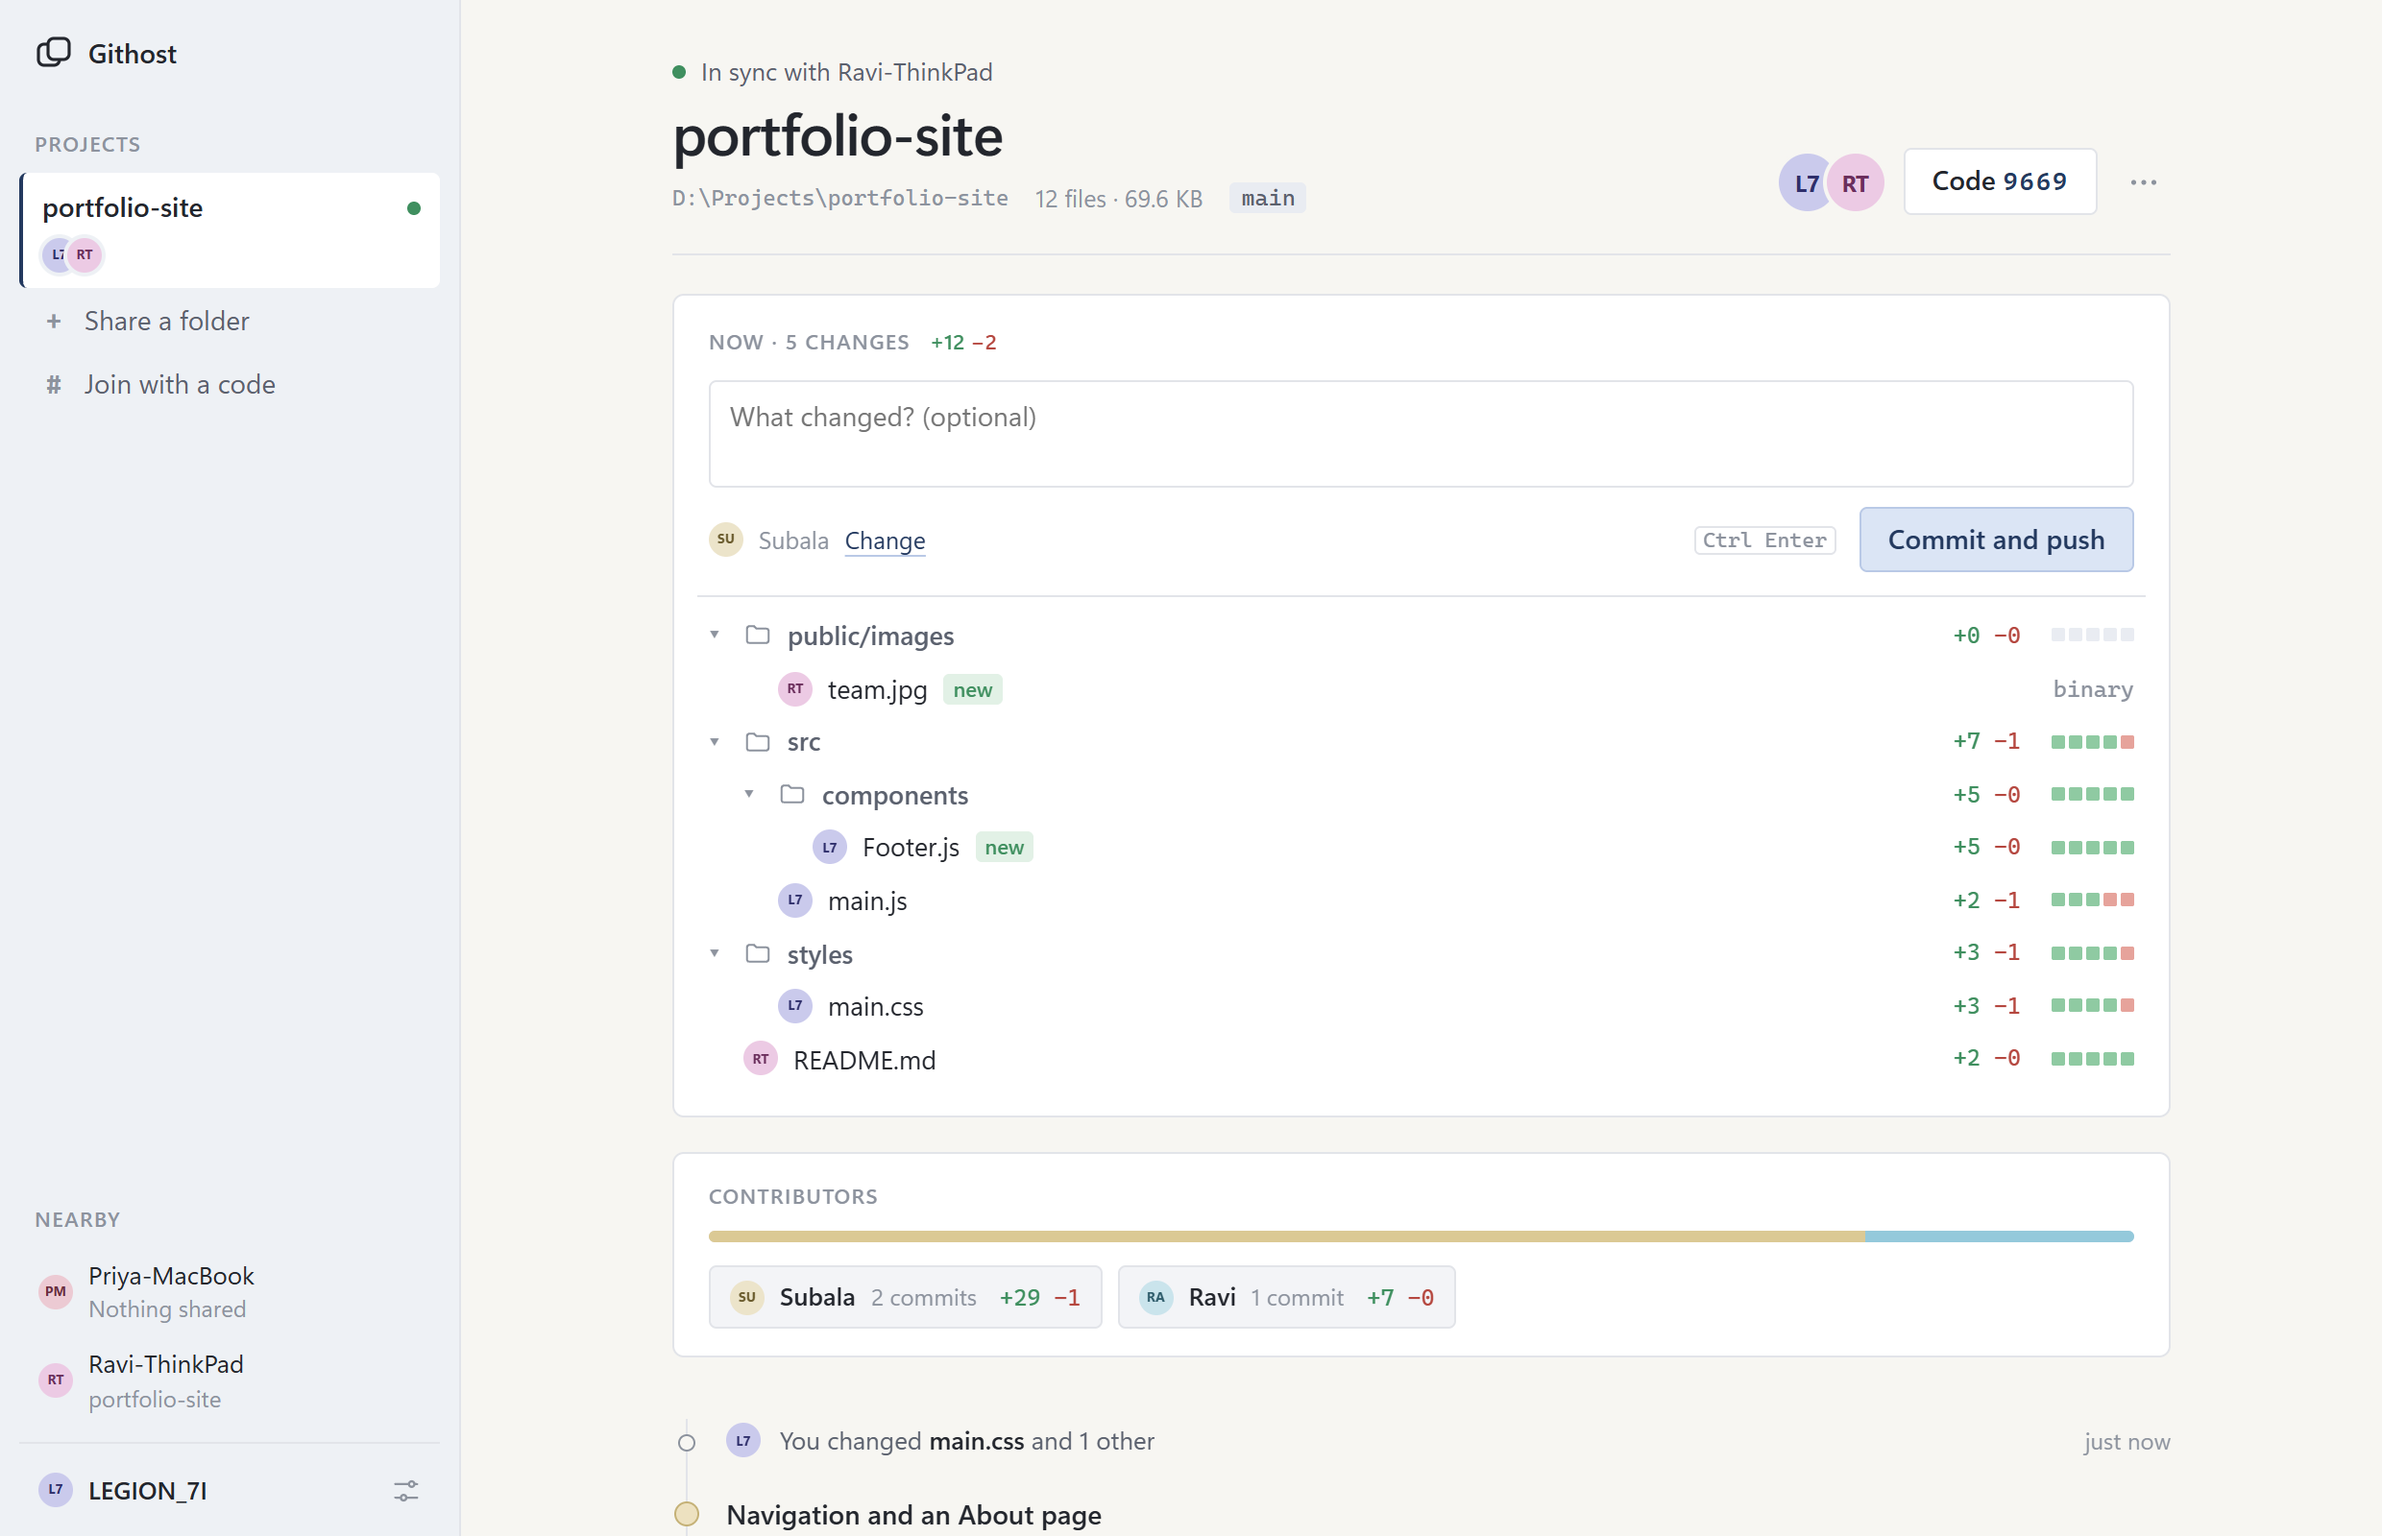
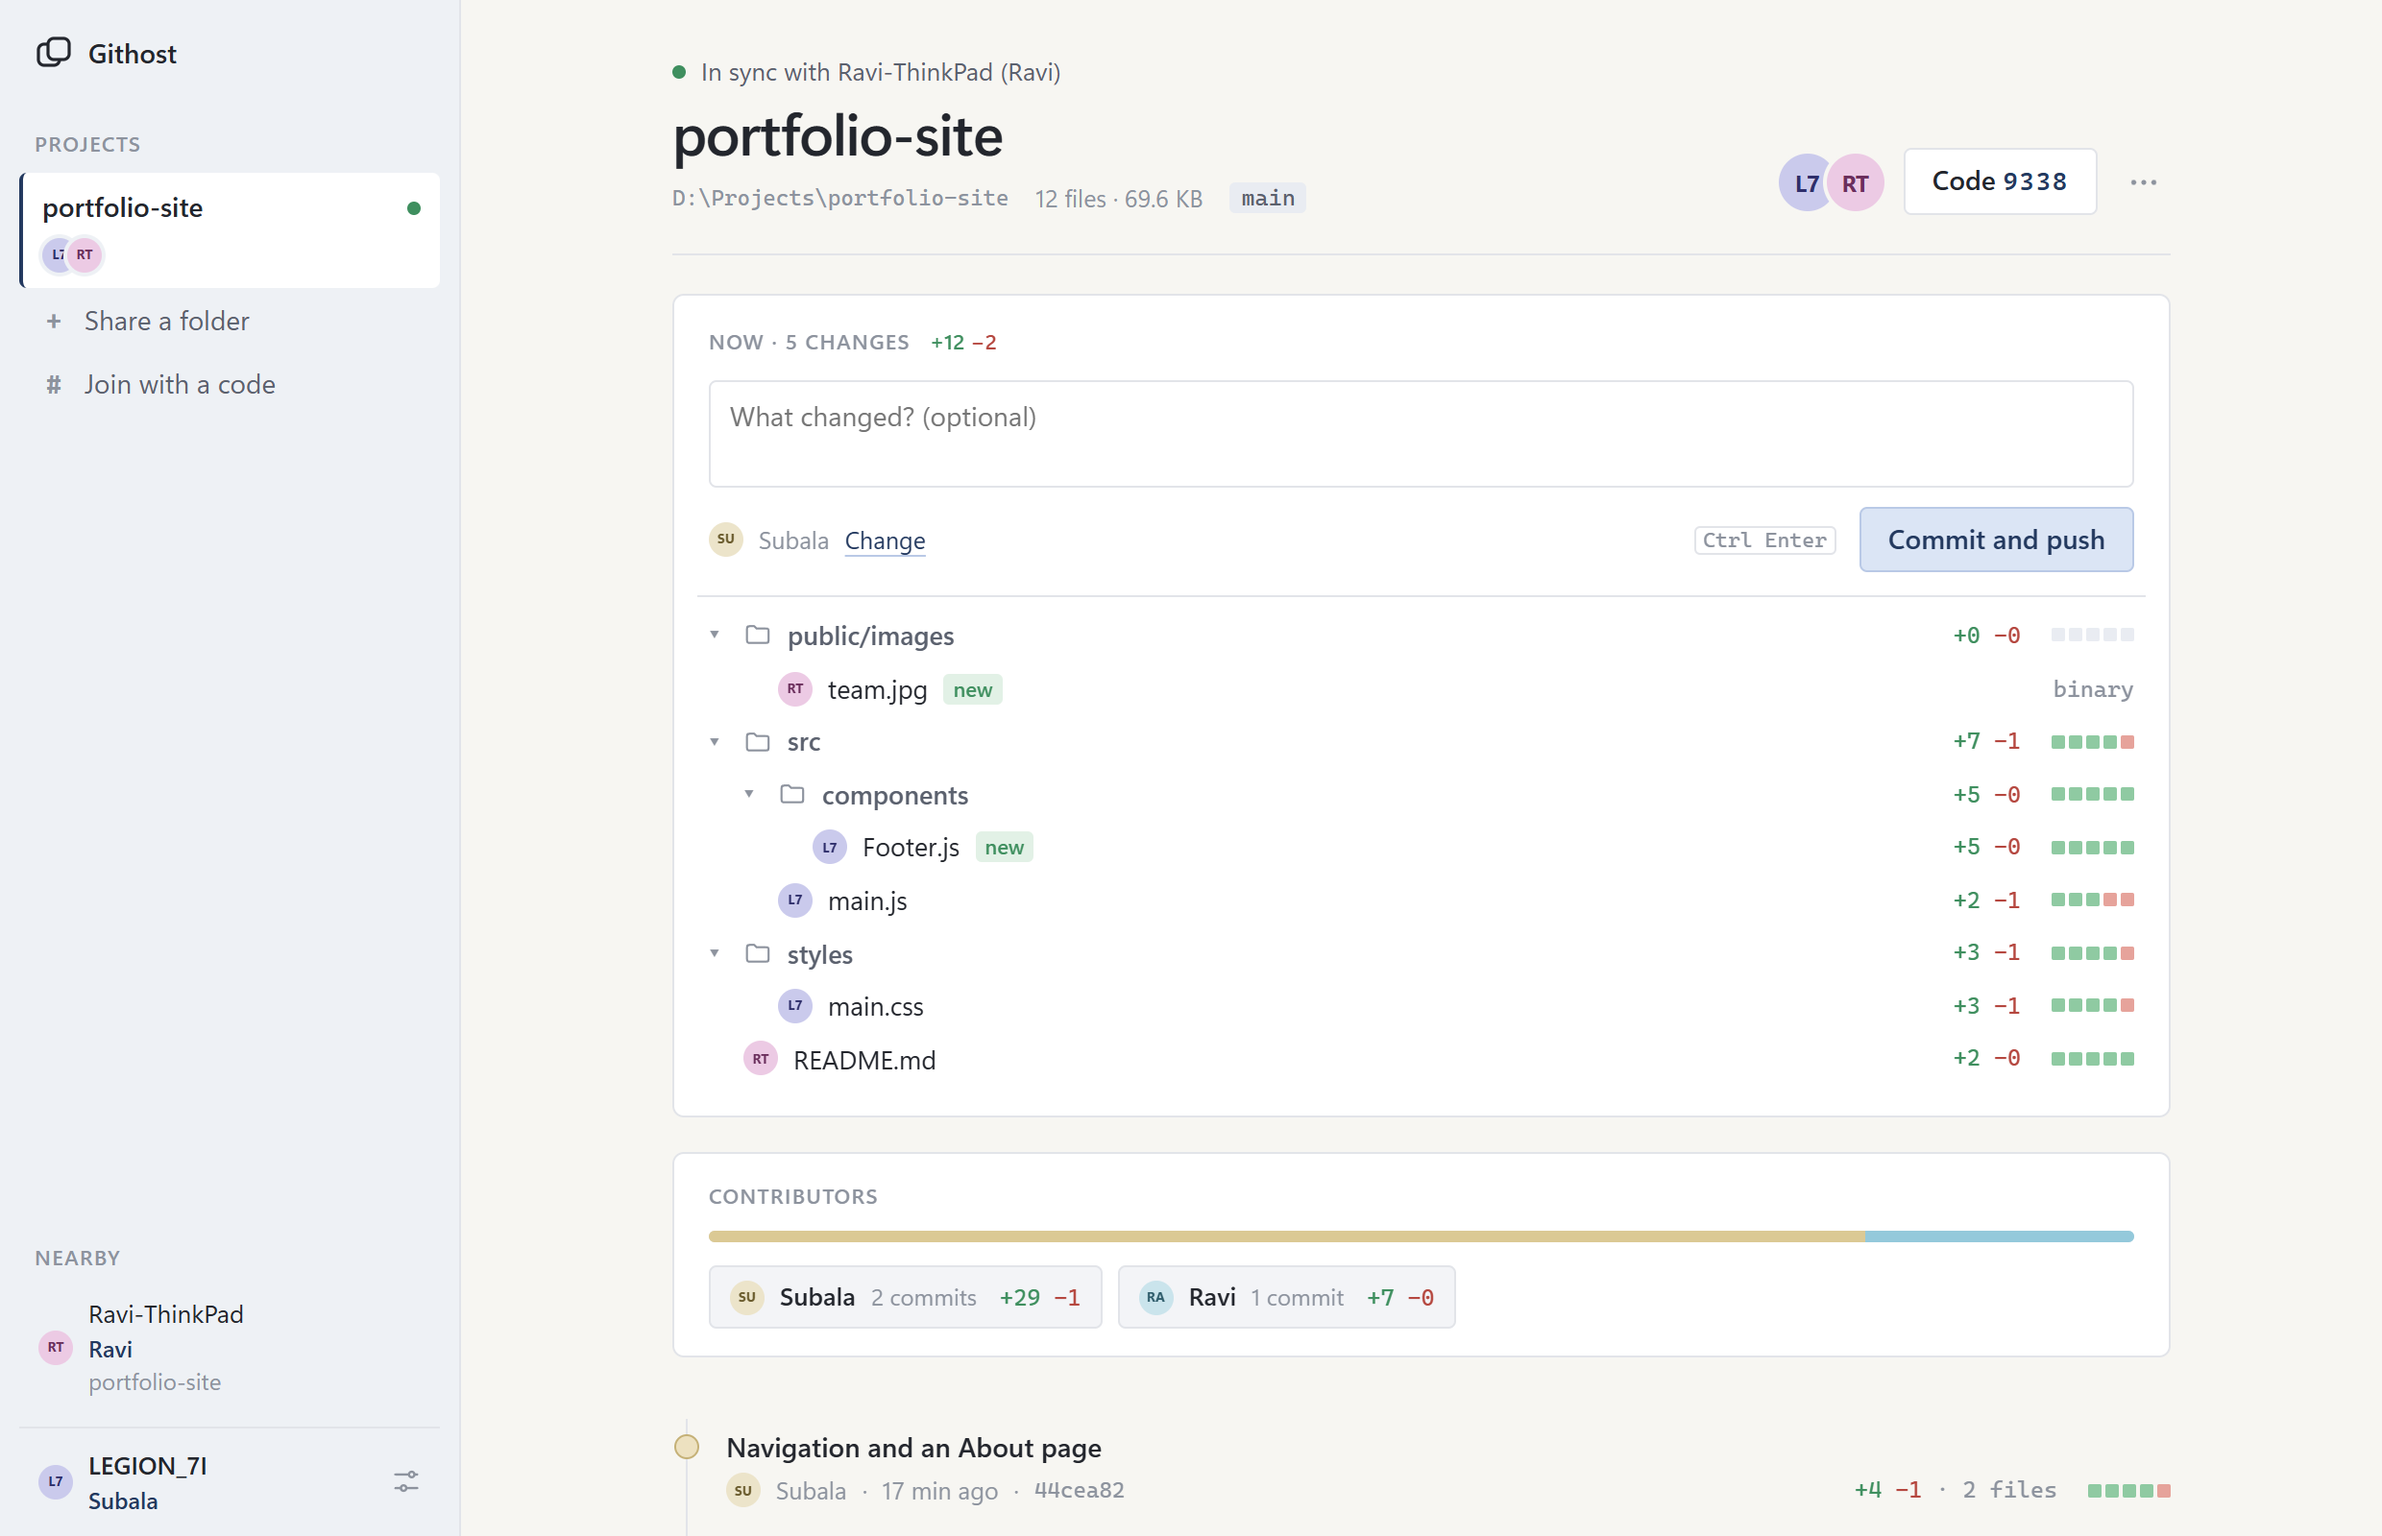
Each laptop's name comes with its owner's git name
Every laptop now says whose it is: it shares its git name (the one its shared repository commits
with, else the global one) on the network, and every other laptop keeps it with the laptop's name.
So PC1145 shows Ravi underneath it in Nearby and in your own corner, reads PC1145 (Ravi) in the
status line and in what each laptop changed, and an avatar's tooltip names both. Version 0.6.1;
the README's main screenshot is retaken.

diff --git a/src/ui.html b/src/ui.html
@@ -36,6 +36,7 @@ input, textarea { font: inherit; color: inherit; }
 .rail .add b { font: 500 14px/1 var(--mono); width: 16px; text-align: center; color: var(--ink3); }
 .near { display: flex; align-items: center; gap: 8px; padding: 5px 10px; font-size: 13px; }
 .near .s { color: var(--ink3); font-size: 12px; }
+.handle { font-size: 12px; font-weight: 500; color: var(--pri-t); }
 .me { display: flex; align-items: center; gap: 8px; padding: 10px 4px 0 10px; margin-top: 8px; border-top: 1px solid var(--line); font-weight: 600; font-size: 13px; }
 .me .icon { margin-left: auto; }
 .icon { width: 28px; height: 28px; border-radius: 4px; display: grid; place-items: center; color: var(--ink3); flex: none; }
@@ -199,8 +200,11 @@ const toast = t => { document.querySelectorAll('.toast').forEach(x => x.remove()
 // Everyone keeps one colour and two letters, worked out from their name.
 const hue = n => { let h = 2166136261; for (const c of String(n)) h = Math.imul(h ^ c.codePointAt(0), 16777619) >>> 0; return h % 24 * 15; };
 const ini = n => { const p = String(n).split(/[^\p{L}\p{N}]+/u).filter(Boolean); return (p.length > 1 ? p[0][0] + p[1][0] : String(n).slice(0, 2)).toUpperCase(); };
-const av = (n, cls = '') => `<span class="av ${cls}" style="--h:${hue(n)}" title="${esc(n)}">${esc(ini(n))}</span>`;
-const who = n => n === S.device.name ? 'You' : n;
+const av = (n, cls = '') => `<span class="av ${cls}" style="--h:${hue(n)}" title="${esc(n)}${S?.handles?.[n] && S.handles[n] !== n ? ' · ' + esc(S.handles[n]) : ''}">${esc(ini(n))}</span>`;
+// A laptop's name with its owner's git name, so PC1145 always says whose it is.
+const hd = n => { const h = S?.handles?.[n]; return h && h !== n ? h : ''; };
+const label = n => hd(n) ? `${n} (${hd(n)})` : n;
+const who = n => n === S.device.name ? 'You' : label(n);
 // Lines added and removed, in green and red, with five squares for the share of each (as GitHub does).
 const nums = (a, r) => `<span class="plus">+${(a || 0).toLocaleString()}</span> <span class="minus">−${(r || 0).toLocaleString()}</span>`;
 const blocks = (a, r) => { const t = a + r, g = t ? Math.round(5 * a / t) : 0; return `<span class="blocks">${[0, 1, 2, 3, 4].map(i => `<i class="${!t ? '' : i < g ? 'g' : 'r'}"></i>`).join('')}</span>`; };
@@ -230,7 +234,7 @@ function treeHtml(files, row, key) {
 let S, G, L, sel = keep('sel'), open = {}, last = {}, mode = '';
 const folder = () => S?.folders.find(f => f.id === sel);
 const statusOf = f => f.error ? ['bad', f.error] : f.pending || f.current ? ['busy', f.current ? 'Getting ' + f.current.split('/').pop() : `Getting ${plural(f.pending, 'file')}`]
-  : !f.peers.length ? ['', 'Waiting for the others to come online'] : f.synced ? ['ok', 'In sync with ' + names(f.peers)] : ['busy', 'Catching up with ' + names(f.peers)];
+  : !f.peers.length ? ['', 'Waiting for the others to come online'] : f.synced ? ['ok', 'In sync with ' + names(f.peers.map(label))] : ['busy', 'Catching up with ' + names(f.peers.map(label))];
 // Draws a part only when it changed, so nothing typed or scrolled is lost.
 const put = (el, html) => { if (el && last[el.id] !== html) { last[el.id] = html; el.innerHTML = html; } };
 
@@ -240,8 +244,8 @@ function render() {
     return `<button class="proj ${f.id === sel ? 'sel' : ''}" data-f="${f.id}"><div class="n"><span class="ell">${esc(f.name)}</span><span class="dot ${d}" style="margin-left:auto"></span></div>
       <div class="row"><span class="stack">${[S.device.name, ...f.peers].map(n => av(n, 'sm')).join('')}</span>${f.peers.length ? '' : 'Only here'}</div></button>`;
   }).join('') || '<div class="quiet">No projects yet</div>');
-  put($('#peers'), S.peers.map(p => `<div class="near">${av(p.name, 'sm')}<span class="t ell">${esc(p.name)}<div class="s ell">${p.shared.length ? esc(names(p.shared)) : p.others ? 'Other projects' : 'Nothing shared'}</div></span></div>`).join('') || '<div class="quiet">No one else on this network</div>');
-  put($('#me'), `${av(S.device.name, 'sm')}<span class="ell">${esc(S.device.name)}</span><button class="icon" data-do="settings" title="Settings"><svg width="17" height="17" viewBox="0 0 24 24" fill="none" stroke="currentColor" stroke-width="1.7" stroke-linecap="round"><path d="M4 7h10M18 7h2M4 17h4M12 17h8"/><circle cx="16" cy="7" r="2"/><circle cx="10" cy="17" r="2"/></svg></button>`);
+  put($('#peers'), S.peers.map(p => `<div class="near">${av(p.name, 'sm')}<span class="t ell">${esc(p.name)}${hd(p.name) ? `<div class="handle ell">${esc(hd(p.name))}</div>` : ''}<div class="s ell">${p.shared.length ? esc(names(p.shared)) : p.others ? 'Other projects' : 'Nothing shared'}</div></span></div>`).join('') || '<div class="quiet">No one else on this network</div>');
+  put($('#me'), `${av(S.device.name, 'sm')}<span class="t ell">${esc(S.device.name)}${hd(S.device.name) ? `<div class="handle ell">${esc(hd(S.device.name))}</div>` : ''}</span><button class="icon" data-do="settings" title="Settings"><svg width="17" height="17" viewBox="0 0 24 24" fill="none" stroke="currentColor" stroke-width="1.7" stroke-linecap="round"><path d="M4 7h10M18 7h2M4 17h4M12 17h8"/><circle cx="16" cy="7" r="2"/><circle cx="10" cy="17" r="2"/></svg></button>`);
   const f = folder(), main = $('#main');
   if (!f) {
     if (main.dataset.v !== 'hello') {

diff --git a/src/store.rs b/src/store.rs
@@ -49,6 +49,8 @@ pub struct Config {
     pub manual_peers: Vec<String>,
     /// Names of laptops seen before, for showing who changed what.
     pub names: HashMap<String, String>,
+    /// Their git names (handles), so a laptop called PC1145 always shows whose it is.
+    pub handles: HashMap<String, String>,
 }
 
 pub type Vv = BTreeMap<String, u64>;
@@ -223,6 +225,8 @@ pub struct App {
     folders: RwLock<Vec<Arc<Folder>>>,
     pub peers: Mutex<HashMap<String, Peer>>,
     pub pairing: Mutex<crate::pair::Pairing>,
+    /// This laptop's git name, looked up every few seconds.
+    pub handle: Mutex<String>,
 }
 
 static APP: OnceLock<App> = OnceLock::new();
@@ -244,7 +248,7 @@ pub fn init(data: PathBuf, port: u16, disc_port: u16, disc_send: Vec<u16>) {
         cfg.device_name = std::env::var("COMPUTERNAME").or_else(|_| std::env::var("HOSTNAME")).unwrap_or_else(|_| "Laptop".into());
     }
     write_json(&data.join("config.json"), &cfg);
-    let _ = APP.set(App { data, port, disc_port, disc_send, cfg: Mutex::new(cfg), folders: Default::default(), peers: Default::default(), pairing: Default::default() });
+    let _ = APP.set(App { data, port, disc_port, disc_send, cfg: Mutex::new(cfg), folders: Default::default(), peers: Default::default(), pairing: Default::default(), handle: Default::default() });
 }
 
 impl App {
@@ -309,11 +313,29 @@ impl App {
         c.names.get(id).cloned().unwrap_or_else(|| format!("Laptop {}", &id[..id.len().min(4)]))
     }
 
-    pub fn learn_name(&self, id: &str, name: &str) {
+    pub fn learn_name(&self, id: &str, name: &str, handle: &str) {
         let mut c = self.cfg();
-        if !name.is_empty() && c.names.get(id).map(String::as_str) != Some(name) {
+        let new_name = !name.is_empty() && c.names.get(id).map(String::as_str) != Some(name);
+        let new_handle = !handle.is_empty() && c.handles.get(id).map(String::as_str) != Some(handle);
+        if new_name {
             c.names.insert(id.to_string(), name.to_string());
+        }
+        if new_handle {
+            c.handles.insert(id.to_string(), handle.to_string());
+        }
+        if new_name || new_handle {
             self.save(&c);
         }
+    }
+
+    /// Every laptop name known here, with its git name.
+    pub fn handles(&self) -> HashMap<String, String> {
+        let c = self.cfg();
+        let mut m: HashMap<String, String> = c.handles.iter().filter_map(|(id, h)| Some((c.names.get(id)?.clone(), h.clone()))).collect();
+        let mine = self.handle.lock().unwrap().clone();
+        if !mine.is_empty() {
+            m.insert(c.device_name.clone(), mine);
+        }
+        m
     }
 }

diff --git a/src/net.rs b/src/net.rs
@@ -150,7 +150,7 @@ pub fn hello(ask: bool) -> Value {
     let a = app();
     let (id, name) = (a.me(), a.cfg().device_name.clone());
     json!({"app": APP_TAG, "id": id, "name": name, "port": a.port, "folders": a.all().iter().map(|f| &f.id).collect::<Vec<_>>(), "ask": ask,
-           "invite": crate::pair::inviting(&a.pairing.lock().unwrap())})
+           "invite": crate::pair::inviting(&a.pairing.lock().unwrap()), "handle": a.handle.lock().unwrap().clone()})
 }
 
 fn upsert(v: &Value, ip: IpAddr) -> bool {
@@ -160,7 +160,7 @@ fn upsert(v: &Value, ip: IpAddr) -> bool {
     }
     let name = v["name"].as_str().unwrap_or("").to_string();
     let folders = v["folders"].as_array().into_iter().flatten().filter_map(|s| s.as_str().map(String::from)).collect();
-    app().learn_name(id, &name);
+    app().learn_name(id, &name, v["handle"].as_str().unwrap_or(""));
     let mut peers = app().peers.lock().unwrap();
     if !peers.get(id).is_some_and(Peer::online) {
         log!("laptop {} ({}) at {}:{}", name, id, ip, port);

diff --git a/src/api.rs b/src/api.rs
@@ -152,9 +152,10 @@ fn state() -> Value {
         .collect();
     peers.sort_by(|x, y| x["name"].as_str().cmp(&y["name"].as_str()));
     let folders: Vec<Value> = folders.iter().map(|f| folder_json(f)).collect();
+    let handles = a.handles();
     let c = a.cfg();
     json!({
-        "device": {"name": c.device_name}, "version": env!("CARGO_PKG_VERSION"), "folders": folders, "peers": peers, "manual": c.manual_peers,
+        "device": {"name": c.device_name}, "handles": handles, "version": env!("CARGO_PKG_VERSION"), "folders": folders, "peers": peers, "manual": c.manual_peers,
         "addresses": net::local_v4().iter().map(|(ip, _)| ip.to_string()).collect::<Vec<_>>(),
     })
 }

diff --git a/src/git.rs b/src/git.rs
@@ -46,6 +46,12 @@ pub fn git(dir: &Path, args: &[&str], interactive: bool) -> Result<String, Strin
     }
 }
 
+/// This laptop's git name: the one a shared folder's repository commits with, else the global one.
+pub fn handle() -> String {
+    let local = app().all().iter().filter(|f| f.root.join(".git").exists()).find_map(|f| git(&f.root, &["config", "user.name"], false).ok().filter(|n| !n.is_empty()));
+    local.or_else(|| git(Path::new("."), &["config", "--global", "user.name"], false).ok()).unwrap_or_default()
+}
+
 /// Holds the folder's git for one operation at a time.
 struct Busy<'a>(&'a Folder);
 

diff --git a/src/main.rs b/src/main.rs
@@ -175,6 +175,11 @@ fn main() {
     for fc in a.cfg().folders.clone() {
         a.open_folder(&fc);
     }
+    std::thread::spawn(|| loop {
+        let h = git::handle();
+        *store::app().handle.lock().unwrap() = h;
+        std::thread::sleep(Duration::from_secs(10));
+    });
     net::start();
     if window {
         api::open_window(port);
